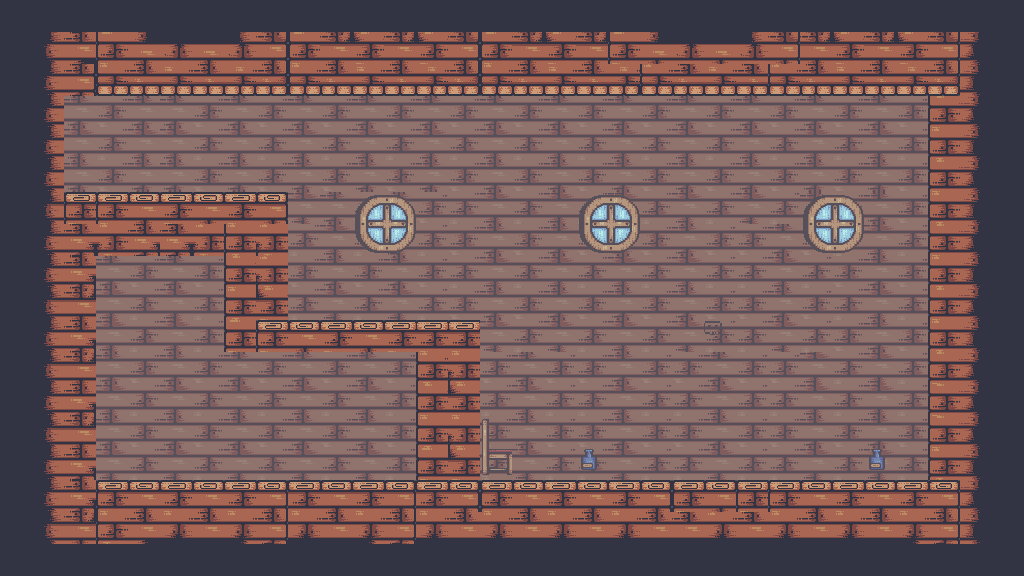
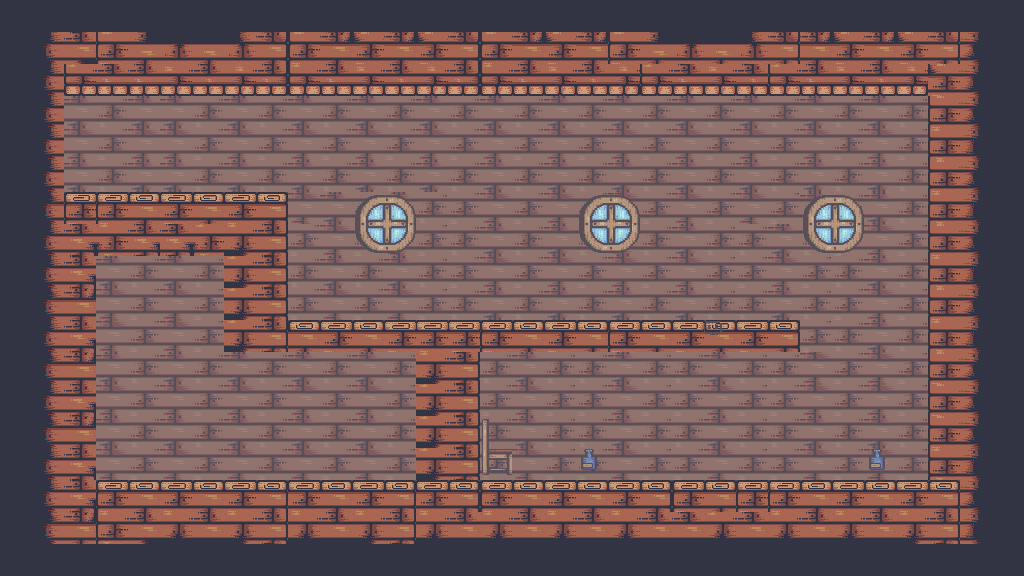
map1 leads to map4

diff --git a/index.js b/index.js
@@ -116,8 +116,53 @@ let levels = {
 
             doors = [
                 new Sprite({
+                    doorID: 'leads_to_map1',
                     position: {
                         x: 100,
+                        y: 95
+                    },
+                    imageSrc: './images/doorOpen.png',
+                    frameRate: 5,
+                    frameBuffer: 5,
+                    loop: false,
+                    autoplay: false
+                }),
+                new Sprite({
+                    position: {
+                        x: 690,
+                        y: 223
+                    },
+                    imageSrc: './images/doorOpen.png',
+                    frameRate: 5,
+                    frameBuffer: 5,
+                    loop: false,
+                    autoplay: false
+                }),
+                new Sprite({
+                    position: {
+                        x: 450,
+                        y: 223
+                    },
+                    imageSrc: './images/doorOpen.png',
+                    frameRate: 5,
+                    frameBuffer: 5,
+                    loop: false,
+                    autoplay: false
+                }),
+                new Sprite({
+                    position: {
+                        x: 570,
+                        y: 385
+                    },
+                    imageSrc: './images/doorOpen.png',
+                    frameRate: 5,
+                    frameBuffer: 5,
+                    loop: false,
+                    autoplay: false
+                }),
+                new Sprite({
+                    position: {
+                        x: 785,
                         y: 385
                     },
                     imageSrc: './images/doorOpen.png',

diff --git a/js/data/map1-collisions.js b/js/data/map1-collisions.js
@@ -31,7 +31,7 @@ const collisionMap4 =
     0, 0, 1, 1, 1, 1, 1, 1, 1, 0, 0, 0, 0, 0, 0, 0, 0, 0, 0, 0, 0, 0, 0, 0, 0, 0, 0, 0, 0, 1, 0, 0,
     0, 0, 1, 0, 0, 0, 0, 1, 1, 0, 0, 0, 0, 0, 0, 0, 0, 0, 0, 0, 0, 0, 0, 0, 0, 0, 0, 0, 0, 1, 0, 0,
     0, 0, 1, 0, 0, 0, 0, 1, 1, 0, 0, 0, 0, 0, 0, 0, 0, 0, 0, 0, 0, 0, 0, 0, 0, 0, 0, 0, 0, 1, 0, 0,
-    0, 0, 1, 0, 0, 0, 0, 1, 1, 1, 1, 1, 1, 1, 1, 0, 0, 0, 0, 0, 0, 0, 0, 0, 0, 0, 0, 0, 0, 1, 0, 0,
+    0, 0, 1, 0, 0, 0, 0, 1, 1, 1, 1, 1, 1, 1, 1, 1, 2, 3, 4, 1, 2, 3, 4, 5, 6, 0, 0, 0, 0, 1, 0, 0,
     0, 0, 1, 0, 0, 0, 0, 0, 0, 0, 0, 0, 0, 1, 1, 0, 0, 0, 0, 0, 0, 0, 0, 0, 0, 0, 0, 0, 0, 1, 0, 0,
     0, 0, 1, 0, 0, 0, 0, 0, 0, 0, 0, 0, 0, 1, 1, 0, 0, 0, 0, 0, 0, 0, 0, 0, 0, 0, 0, 0, 0, 1, 0, 0,
     0, 0, 1, 0, 0, 0, 0, 0, 0, 0, 0, 0, 0, 1, 1, 0, 0, 0, 0, 0, 0, 0, 0, 0, 0, 0, 0, 0, 0, 1, 0, 0,
